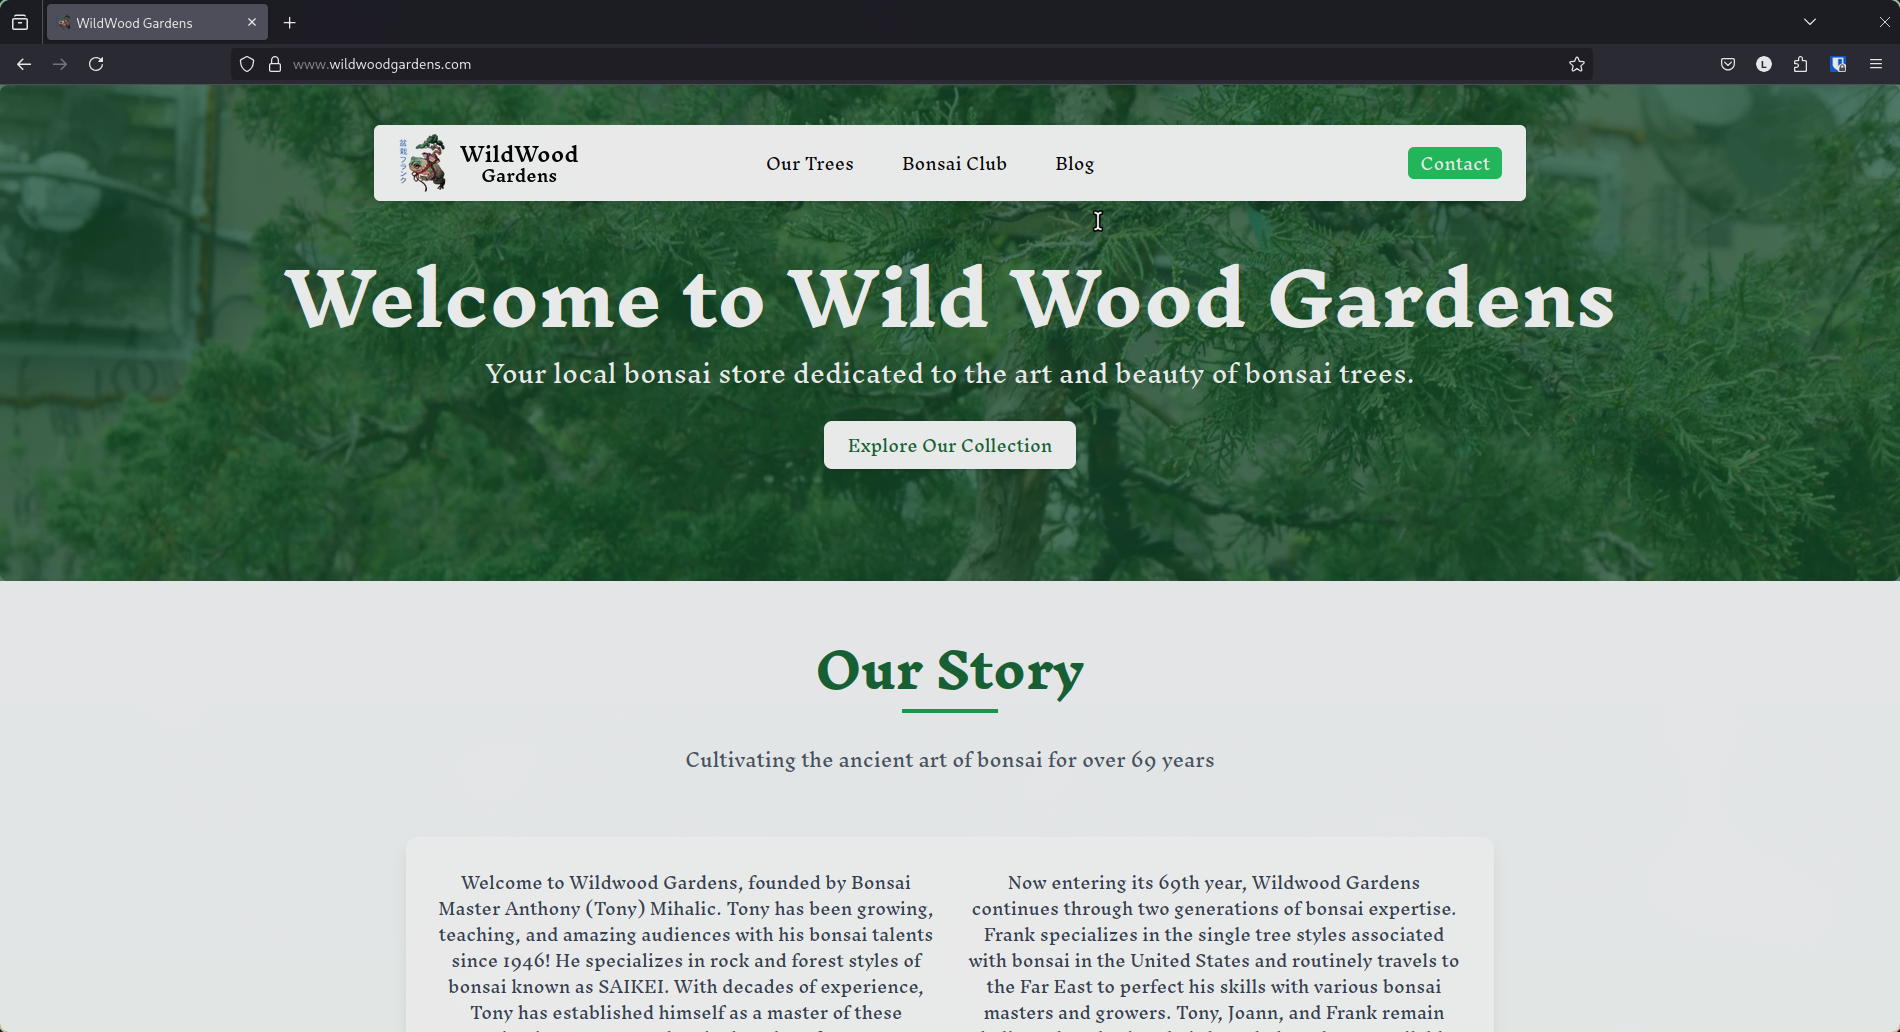
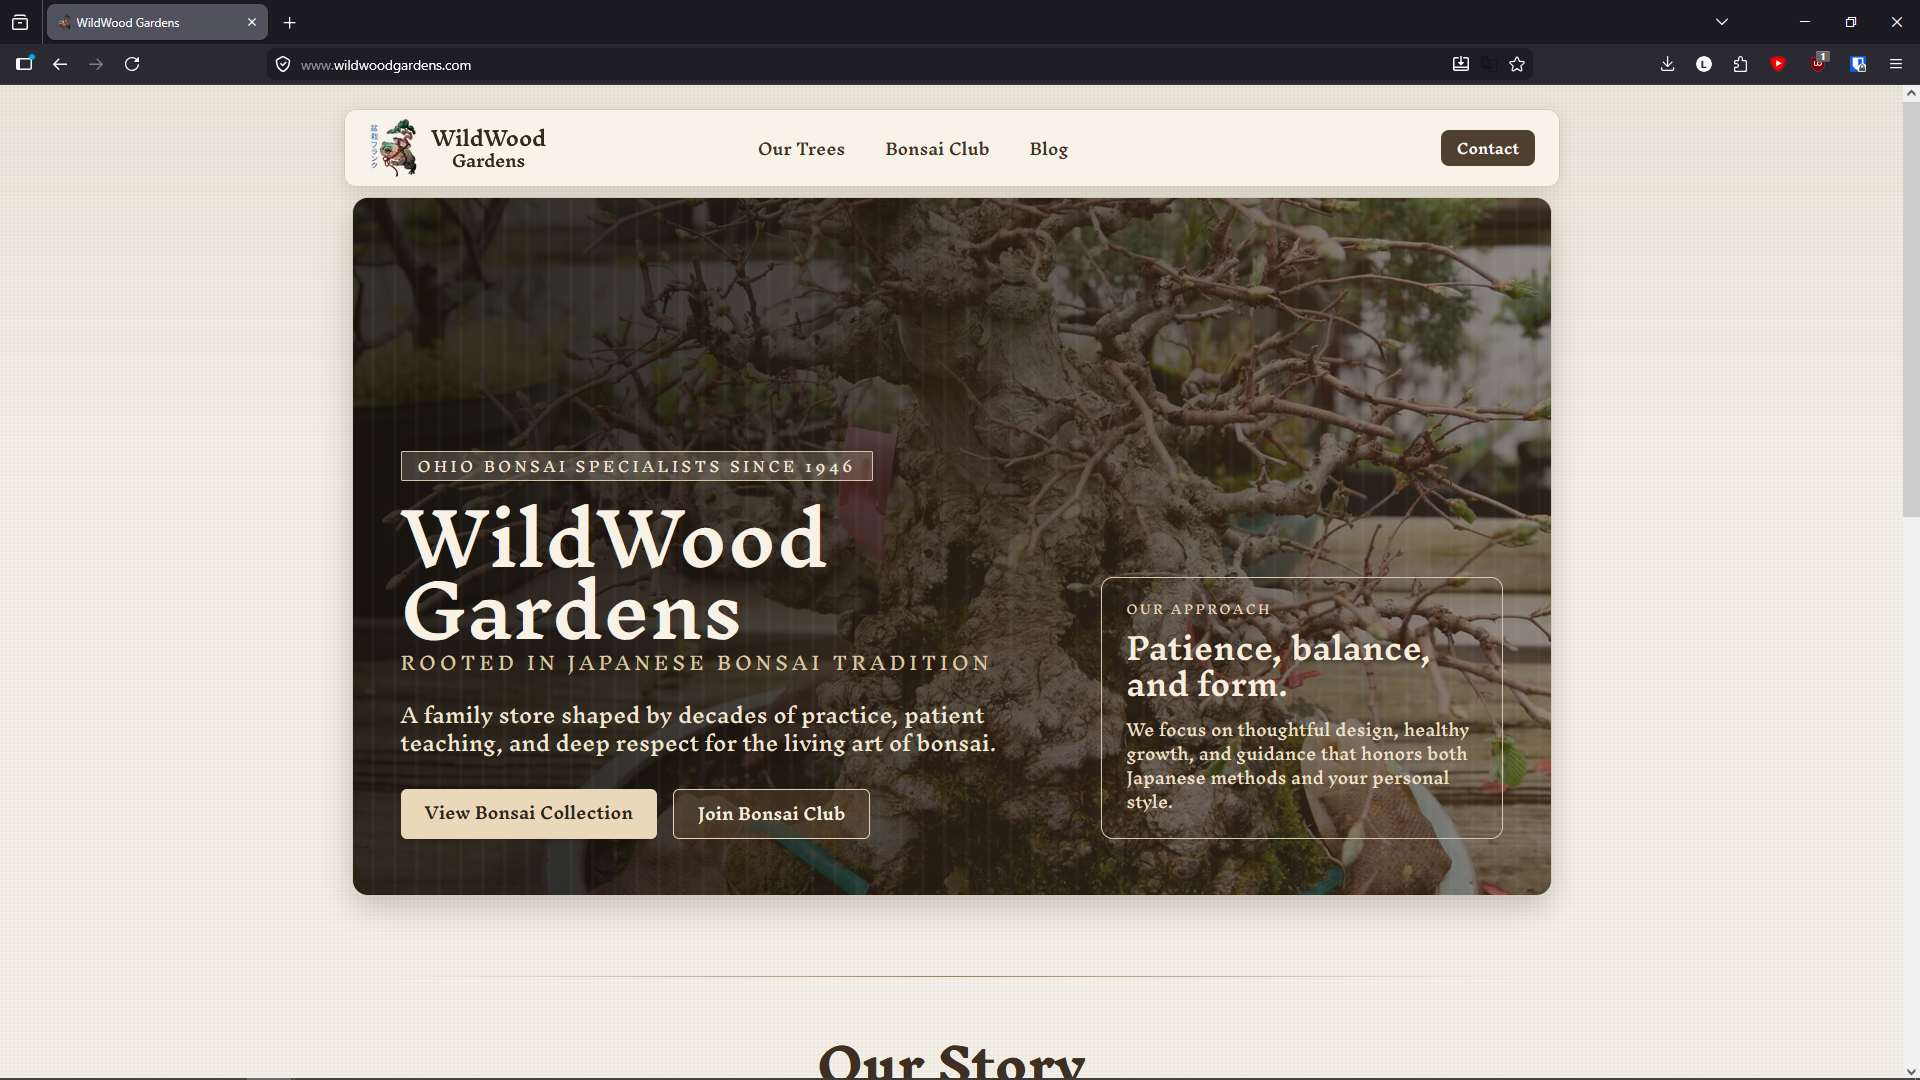
fix: comment out Comments component in Post component
update: new bonsai app picture

diff --git a/src/app/components/post.jsx b/src/app/components/post.jsx
@@ -51,7 +51,7 @@ export default function Post({
         </div>
         <p className="italic text-sm mt-2">{imgDescription}</p>
         <div className="w-4/4">{content}</div>
-        <Comments slug={slug} />
+        {/* <Comments slug={slug} /> */}
       </div>
     );
   };
